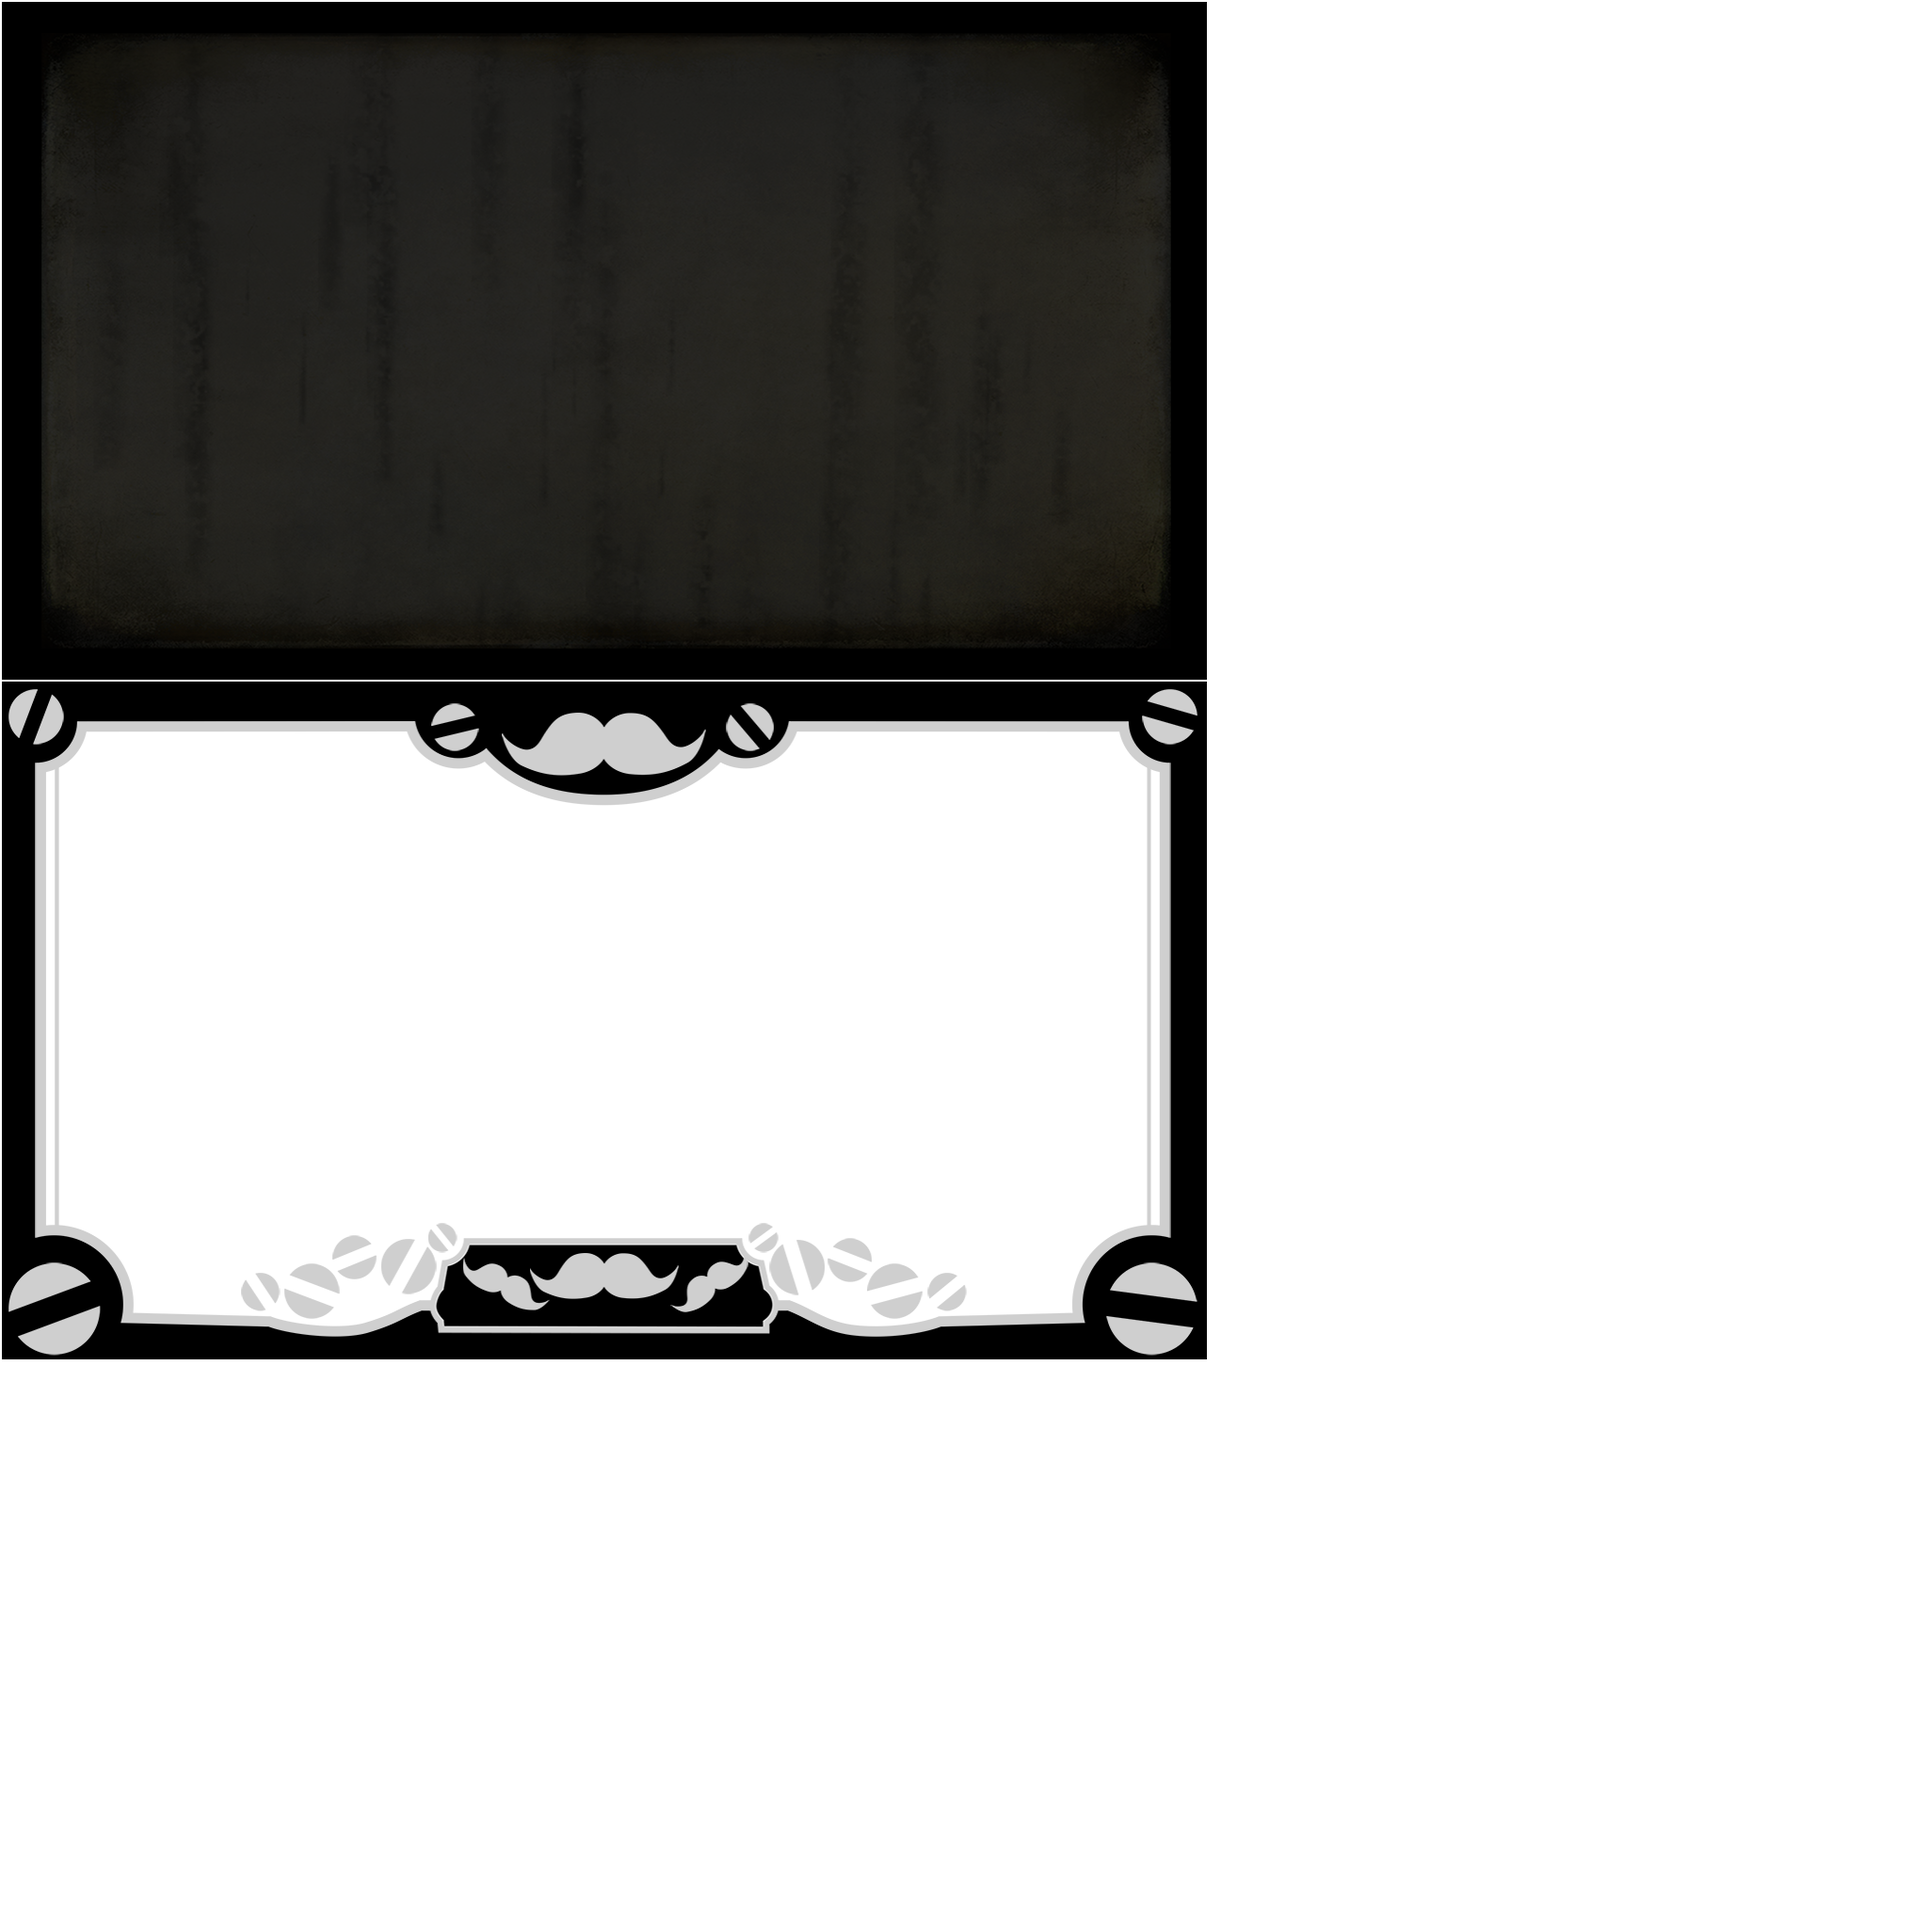
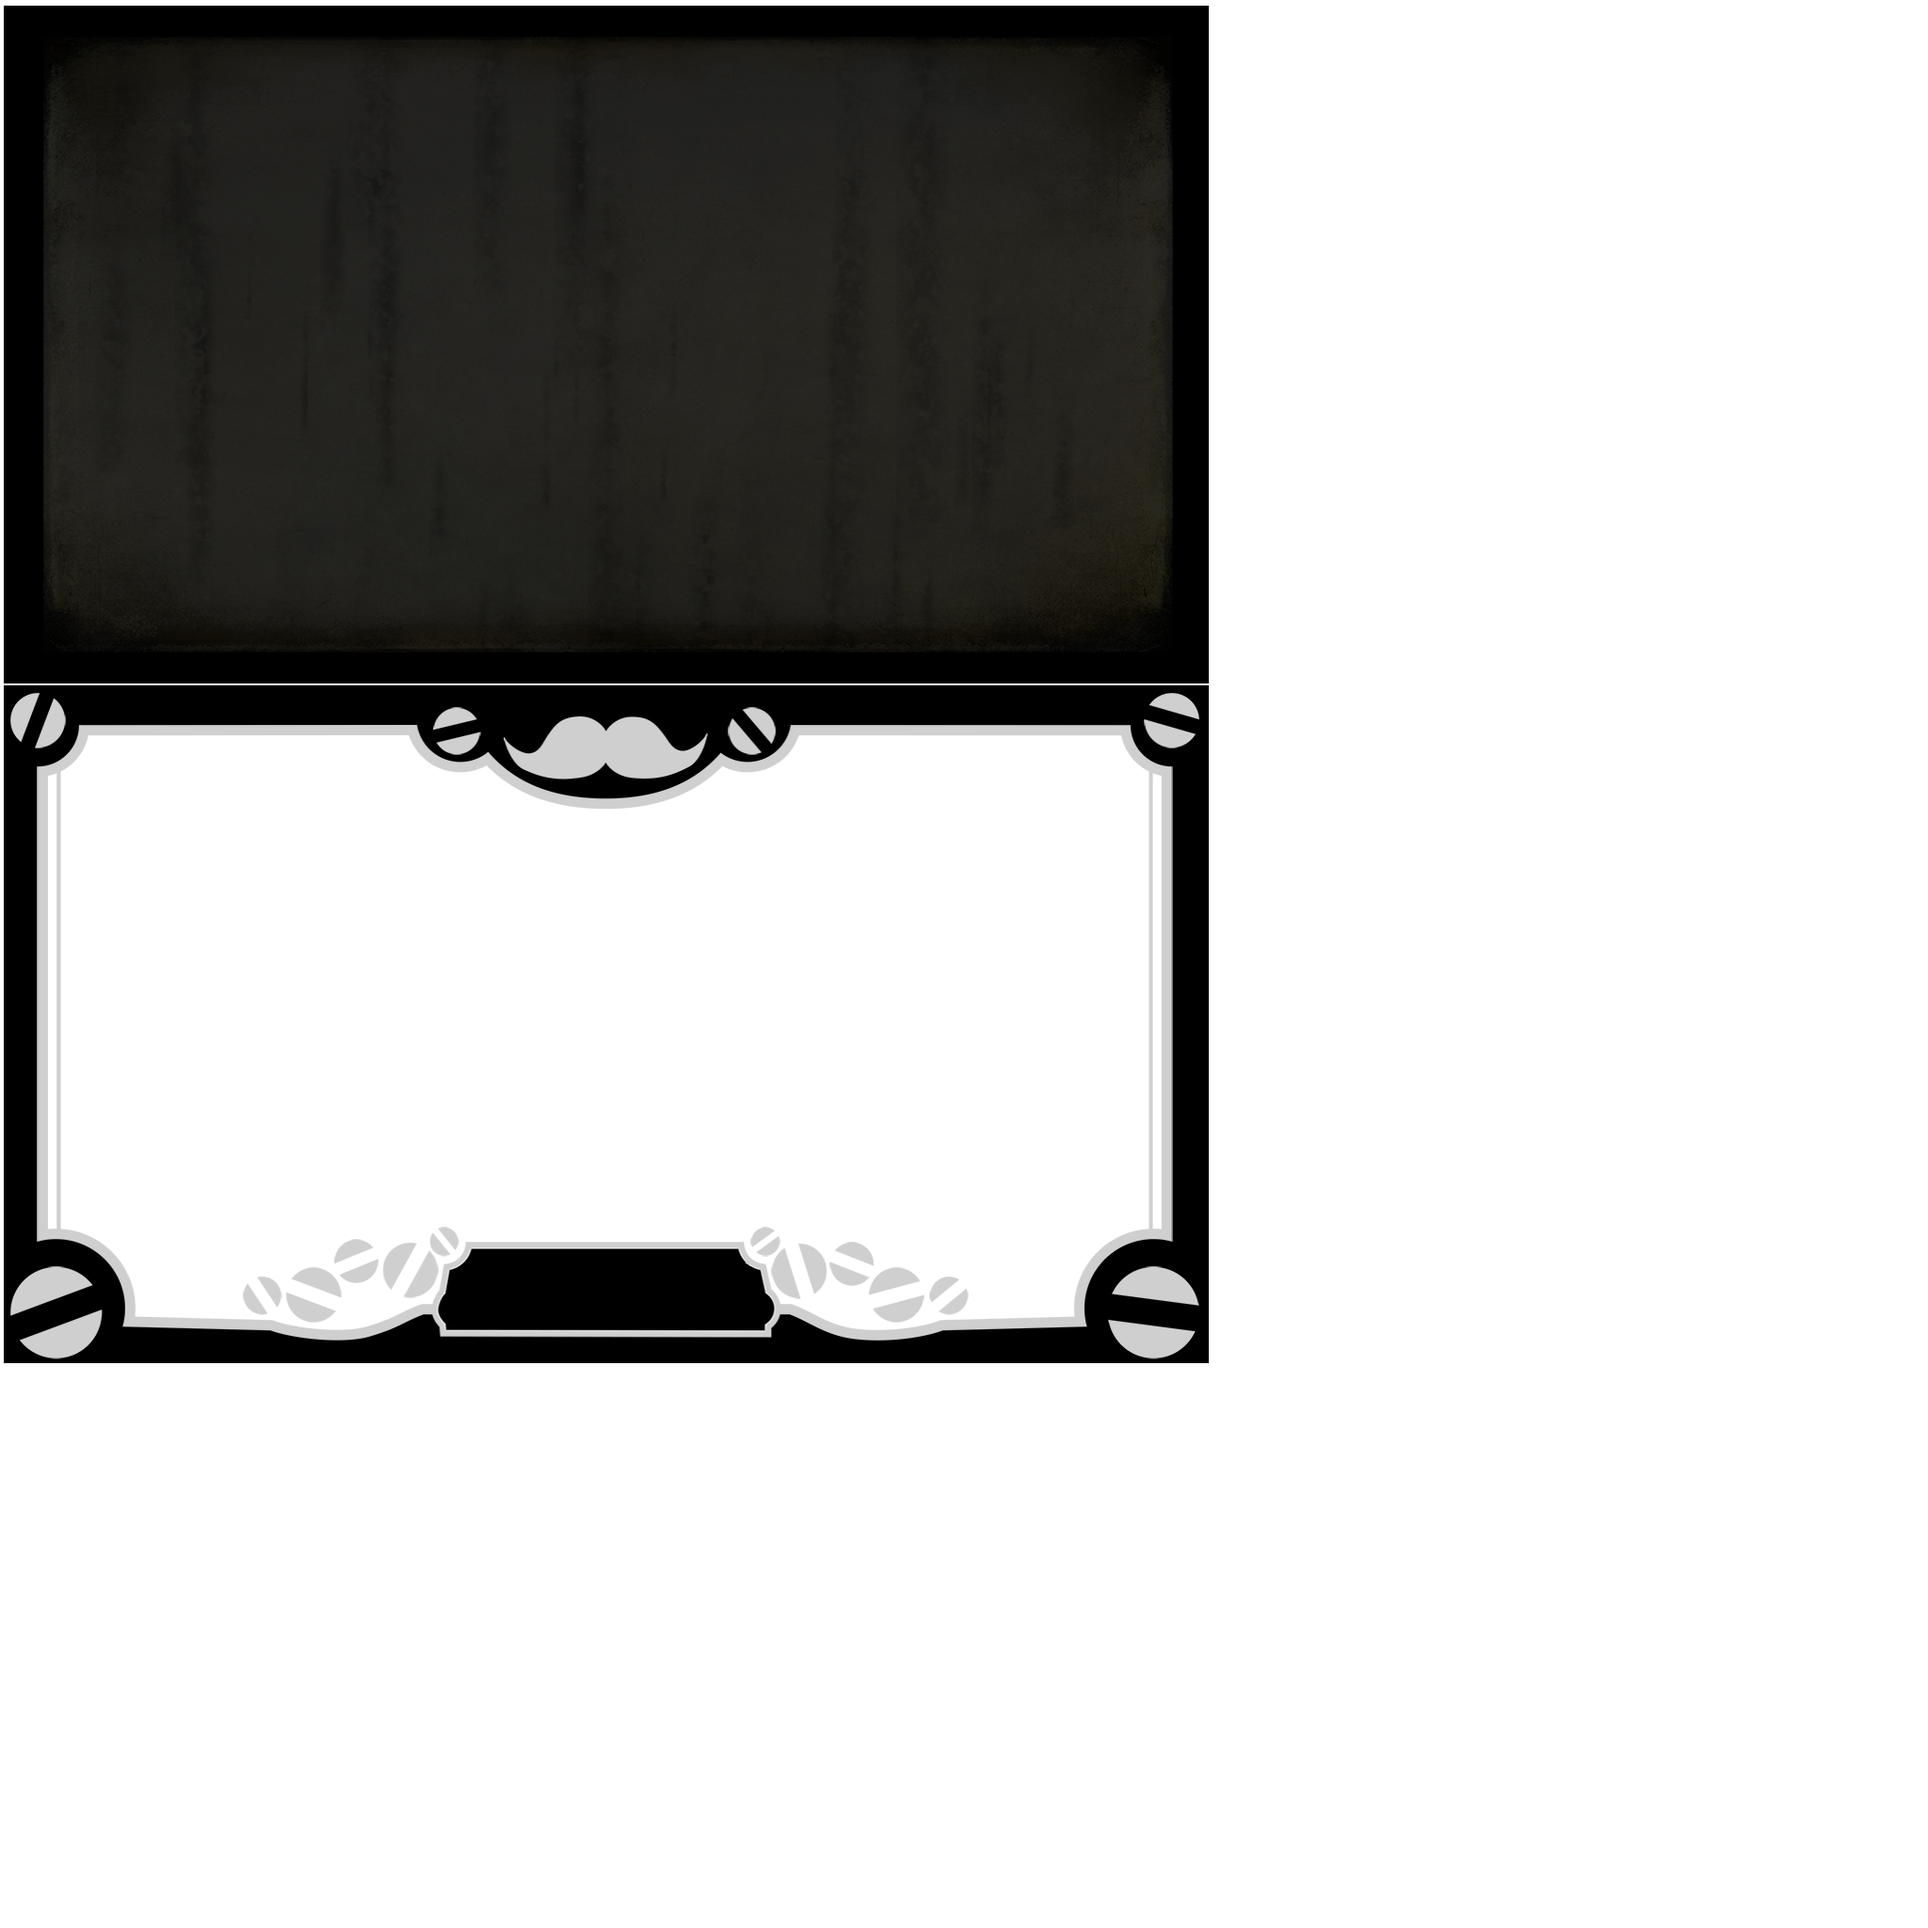
cannons lose control, trophy screen png's cleaned up

diff --git a/werescrewed/src/com/blindtigergames/werescrewed/player/Player.java b/werescrewed/src/com/blindtigergames/werescrewed/player/Player.java
@@ -165,6 +165,8 @@ public class Player extends Entity {
 	private boolean steamCollide = false;
 	@SuppressWarnings( "unused" )
 	private boolean steamDone = false;
+	
+	private float controlValue = 0f;
 
 	//private IMover mover;
 
@@ -292,10 +294,8 @@ public class Player extends Entity {
 		if ( switchTimer > 0 )
 			--switchTimer;
 		
-		if ( Gdx.input.isKeyPressed( Keys.PERIOD ) ) {
-			have_control = false;
-		}
-		if ( Gdx.input.isKeyPressed( Keys.SLASH ) ) {
+		controlValue = controlValue - deltaTime;
+		if(controlValue < 0 && grounded){
 			have_control = true;
 		}
 		
@@ -306,11 +306,6 @@ public class Player extends Entity {
 				if ( tutorialFrame > tutorialEnd )
 					tutorialFrame = tutorialBegin;
 				tutorial.setTexture( tutorials[ tutorialFrame ] );
-				// Gdx.app.log( "tutorialIndexes: " + tutorialIndexes[
-				// tutorialFrame
-				// ], "\ntutorialFrame: " + tutorialFrame + "\ntutorialTimer: "
-				// +
-				// tutorialTimer );
 				tutorialTimer = 0;
 			}
 		}
@@ -1845,12 +1840,12 @@ public class Player extends Entity {
 		}
 		resetScrewJumpGrabKeyboard( );
 
-		if ( inputHandler.leftPressed( ) ) {
+		if ( inputHandler.leftPressed( ) && have_control ) {
 			processMovingState( );
 			moveLeft( );
 			prevButton = PovDirection.west;
 		}
-		if ( inputHandler.rightPressed( ) ) {
+		if ( inputHandler.rightPressed( ) && have_control ) {
 			processMovingState( );
 			moveRight( );
 			prevButton = PovDirection.east;
@@ -1949,7 +1944,7 @@ public class Player extends Entity {
 				} else {
 					moveAnalogLeft( );
 				}
-			} else {
+			} else if( have_control ){
 				moveLeft( );
 			}
 			prevButton = PovDirection.west;
@@ -1963,7 +1958,7 @@ public class Player extends Entity {
 				} else {
 					moveAnalogRight( );
 				}
-			} else {
+			} else if(have_control){
 				moveRight( );
 			}
 			prevButton = PovDirection.east;
@@ -2350,6 +2345,18 @@ public class Player extends Entity {
 
 	public void setDeadPlayerHitCheckpnt( boolean deadPlayerHitCheckpnt ) {
 		this.deadPlayerHitCheckpnt = deadPlayerHitCheckpnt;
+	}
+	
+	/**
+	 * takes control from player and checks for grounded to give control
+	 * back after delay seconds, used for cannon
+	 * 
+	 * @param delay
+	 *            float
+	 */
+	public void loseControl( float delay ) {
+		have_control = false;
+		controlValue = delay;
 	}
 	
 	@Override

diff --git a/werescrewed/src/com/blindtigergames/werescrewed/entity/action/CannonLaunchAction.java b/werescrewed/src/com/blindtigergames/werescrewed/entity/action/CannonLaunchAction.java
@@ -2,8 +2,10 @@ package com.blindtigergames.werescrewed.entity.action;
 
 import com.blindtigergames.werescrewed.WereScrewedGame;
 import com.blindtigergames.werescrewed.entity.Entity;
+import com.blindtigergames.werescrewed.entity.EntityType;
 import com.blindtigergames.werescrewed.entity.Skeleton;
 import com.blindtigergames.werescrewed.entity.mover.CannonLaunchMover;
+import com.blindtigergames.werescrewed.player.Player;
 import com.blindtigergames.werescrewed.sound.SoundManager;
 
 public class CannonLaunchAction implements IAction {
@@ -40,6 +42,10 @@ public class CannonLaunchAction implements IAction {
 
 		entity.setMoverAtCurrentState( new CannonLaunchMover( cannon,
 				impulseStrength, delaySeconds ) );
+		if(entity.entityType == EntityType.PLAYER ){
+			Player player = (Player) entity;
+			player.loseControl( delaySeconds * 2 );
+		}
 	}
 
 	@Override

diff --git a/werescrewed/src/com/blindtigergames/werescrewed/screens/TrophyScreen.java b/werescrewed/src/com/blindtigergames/werescrewed/screens/TrophyScreen.java
@@ -795,8 +795,8 @@ public class TrophyScreen extends Screen {
 				.start( tweenManager );
 			}
 		}
-		next.setX( centerX - next.getWidth( ) / 2 - 5 );
-		next.setY( 130 + next.getHeight( ) );
+		next.setX( centerX - next.getWidth( ) / 2 );
+		next.setY( 125 + next.getHeight( ) );
 	}
 
 	@Override
